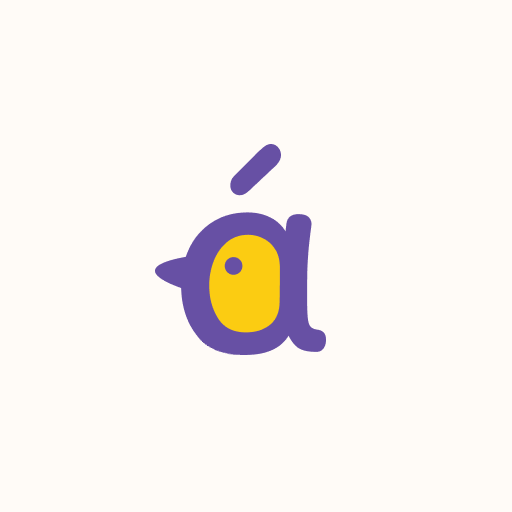
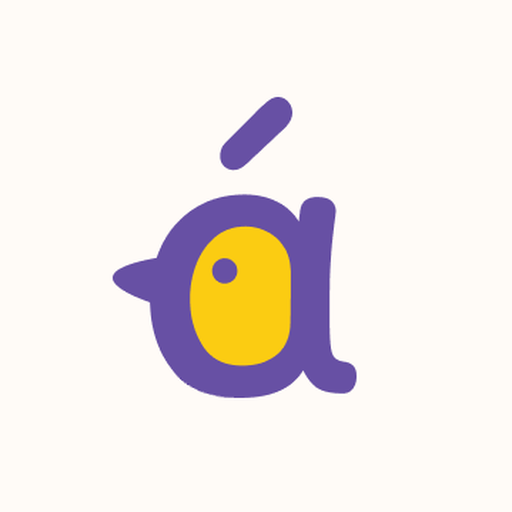
Add complete Play Store assets for all devices
- Enlarged app icon for better visibility
- Add feature graphic (1024x500) with gradient design
- Add tablet 7" screenshots (4 images, 1200x1920)
- Add tablet 10" screenshots (4 images, 1600x2560)
- Update README with documentation for all assets
- Add tablet screenshot generation script

Changed region(s): [[0.2188, 0.1875, 0.7188, 0.7812]]

diff --git a/scripts/take-tablet-screenshots.js b/scripts/take-tablet-screenshots.js
@@ -1,0 +1,99 @@
+const puppeteer = require('puppeteer');
+const path = require('path');
+
+const wait = (ms) => new Promise(resolve => setTimeout(resolve, ms));
+
+async function takeTabletScreenshots() {
+  console.log('🚀 Iniciando Puppeteer para tablets...');
+
+  const browser = await puppeteer.launch({
+    headless: 'new',
+    args: ['--no-sandbox', '--disable-setuid-sandbox']
+  });
+
+  const baseUrl = 'https://xara-roan.vercel.app';
+  const outputDir = path.join(__dirname, '../play-store-assets');
+
+  // Configurações de tablets
+  const tablets = [
+    {
+      name: '7-inch',
+      width: 1200,
+      height: 1920,
+      deviceScaleFactor: 1.5,
+      prefix: 'tablet-7-'
+    },
+    {
+      name: '10-inch',
+      width: 1600,
+      height: 2560,
+      deviceScaleFactor: 1.5,
+      prefix: 'tablet-10-'
+    }
+  ];
+
+  for (const tablet of tablets) {
+    console.log(`\n📱 Gerando screenshots para tablet ${tablet.name}...`);
+
+    const page = await browser.newPage();
+    await page.setViewport({
+      width: tablet.width,
+      height: tablet.height,
+      deviceScaleFactor: tablet.deviceScaleFactor,
+    });
+
+    try {
+      // Screenshot 1: Página inicial
+      console.log(`📸 Screenshot 1: Página inicial (${tablet.name})...`);
+      await page.goto(baseUrl, { waitUntil: 'networkidle2', timeout: 30000 });
+      await wait(2000);
+      await page.screenshot({
+        path: path.join(outputDir, `${tablet.prefix}1-home.png`),
+        fullPage: false,
+      });
+
+      // Screenshot 2: Busca com texto
+      console.log(`📸 Screenshot 2: Busca (${tablet.name})...`);
+      await page.type('input[placeholder*="Busque"]', 'bem-te-vi');
+      await wait(2000);
+      await page.screenshot({
+        path: path.join(outputDir, `${tablet.prefix}2-search.png`),
+        fullPage: false,
+      });
+
+      // Screenshot 3: Resultados
+      console.log(`📸 Screenshot 3: Resultados (${tablet.name})...`);
+      await wait(1000);
+      await page.screenshot({
+        path: path.join(outputDir, `${tablet.prefix}3-results.png`),
+        fullPage: false,
+      });
+
+      // Screenshot 4: Página de espécie
+      console.log(`📸 Screenshot 4: Página de espécie (${tablet.name})...`);
+      try {
+        await page.click('[role="button"]');
+        await wait(2000);
+        await page.screenshot({
+          path: path.join(outputDir, `${tablet.prefix}4-species.png`),
+          fullPage: false,
+        });
+      } catch (e) {
+        console.log(`⚠  Não foi possível acessar página de espécie (${tablet.name})`);
+      }
+
+      console.log(`✅ Screenshots ${tablet.name} criados!`);
+
+    } catch (error) {
+      console.error(`❌ Erro ao tirar screenshots ${tablet.name}:`, error);
+    } finally {
+      await page.close();
+    }
+  }
+
+  await browser.close();
+  console.log('\n✅ Todos os screenshots de tablet criados!');
+  console.log(`📁 Localização: ${outputDir}`);
+}
+
+takeTabletScreenshots();

diff --git a/play-store-assets/README.md b/play-store-assets/README.md
@@ -10,6 +10,13 @@ Este diretório contém todos os assets necessários para publicar o app no Goog
 - **`icon-512x512.png`** (512 x 512 px)
   - Formato: PNG
   - Uso: Ícone principal do app
+  - Logo ampliado para máxima visibilidade
+
+#### ✅ Feature Graphic
+- **`feature-graphic.png`** (1024 x 500 px)
+  - Formato: PNG
+  - Uso: Banner principal da ficha do app
+  - Design com gradiente roxo e logo + texto
 
 #### ✅ Screenshots (Mobile)
 - **`1-home.png`** - Tela inicial com logo e busca
@@ -22,6 +29,28 @@ Este diretório contém todos os assets necessários para publicar o app no Goog
 - Escala: 2x (786 x 1702 efetivo)
 - Formato: PNG
 - ✅ Atendem requisitos do Google Play (mínimo 320px)
+
+#### ✅ Screenshots (Tablet 7")
+- **`tablet-7-1-home.png`** - Tela inicial
+- **`tablet-7-2-search.png`** - Campo de busca
+- **`tablet-7-3-results.png`** - Resultados da busca
+- **`tablet-7-4-species.png`** - Página de detalhes
+
+**Especificações:**
+- Dimensões: 1200 x 1920 px
+- Escala: 1.5x
+- Formato: PNG
+
+#### ✅ Screenshots (Tablet 10")
+- **`tablet-10-1-home.png`** - Tela inicial
+- **`tablet-10-2-search.png`** - Campo de busca
+- **`tablet-10-3-results.png`** - Resultados da busca
+- **`tablet-10-4-species.png`** - Página de detalhes
+
+**Especificações:**
+- Dimensões: 1600 x 2560 px
+- Escala: 1.5x
+- Formato: PNG
 
 ---
 
@@ -38,9 +67,22 @@ Este diretório contém todos os assets necessários para publicar o app no Goog
 - PNG de 32 bits ✅
 - Até 1 MB ✅
 
-### 2. Screenshots
+### 2. Feature Graphic
 
-**Localização:** Configuração do app → Recursos gráficos da ficha → Screenshots de smartphone
+**Localização:** Configuração do app → Recursos gráficos da ficha → Imagem de recursos gráficos
+
+**Arquivo:** `feature-graphic.png`
+
+**Requisitos:**
+- 1024 x 500 px ✅
+- JPEG ou PNG ✅
+- Até 15 MB ✅
+
+### 3. Screenshots
+
+**Localização:** Configuração do app → Recursos gráficos da ficha
+
+#### Screenshots de smartphone
 
 **Arquivos:** Todos os 4 screenshots (ou escolha 2-8 deles)
 
@@ -56,6 +98,18 @@ Este diretório contém todos os assets necessários para publicar o app no Goog
 2. `3-results.png` - Funcionalidade principal (busca)
 3. `4-species.png` - Detalhes e informações
 4. `2-search.png` - Interação (digitando)
+
+#### Screenshots de tablet 7"
+
+**Arquivos:** `tablet-7-*.png` (4 screenshots)
+
+**Uso:** Opcional, mas recomendado para melhor visualização em tablets
+
+#### Screenshots de tablet 10"
+
+**Arquivos:** `tablet-10-*.png` (4 screenshots)
+
+**Uso:** Opcional, mas recomendado para melhor visualização em tablets grandes
 
 ---
 
@@ -108,11 +162,16 @@ Se precisar atualizar os screenshots:
 # Instalar dependência (se ainda não tiver)
 npm install --save-dev puppeteer
 
-# Executar script
+# Executar script de mobile
 node scripts/take-screenshots.js
+
+# Executar script de tablets
+node scripts/take-tablet-screenshots.js
 ```
 
 Os novos screenshots serão salvos neste diretório.
+
+**Nota:** O feature graphic e o ícone são gerados via scripts Python usando PIL (Pillow).
 
 ---
 
@@ -120,13 +179,16 @@ Os novos screenshots serão salvos neste diretório.
 
 Antes de fazer upload no Google Play Console:
 
-- [x] Ícone 512x512 preparado
-- [x] Mínimo 2 screenshots prontos
+- [x] Ícone 512x512 preparado (logo ampliado)
+- [x] Feature Graphic 1024x500 preparado
+- [x] Mínimo 2 screenshots mobile prontos (temos 4)
+- [x] Screenshots tablet 7" preparados (4 screenshots)
+- [x] Screenshots tablet 10" preparados (4 screenshots)
 - [x] Screenshots em formato adequado (PNG)
 - [x] Dimensões dentro dos limites
-- [ ] Descrição curta pronta
-- [ ] Descrição completa pronta
-- [ ] Categoria selecionada
+- [x] Descrição curta pronta
+- [x] Descrição completa pronta
+- [x] Categoria selecionada
 
 ---
 
